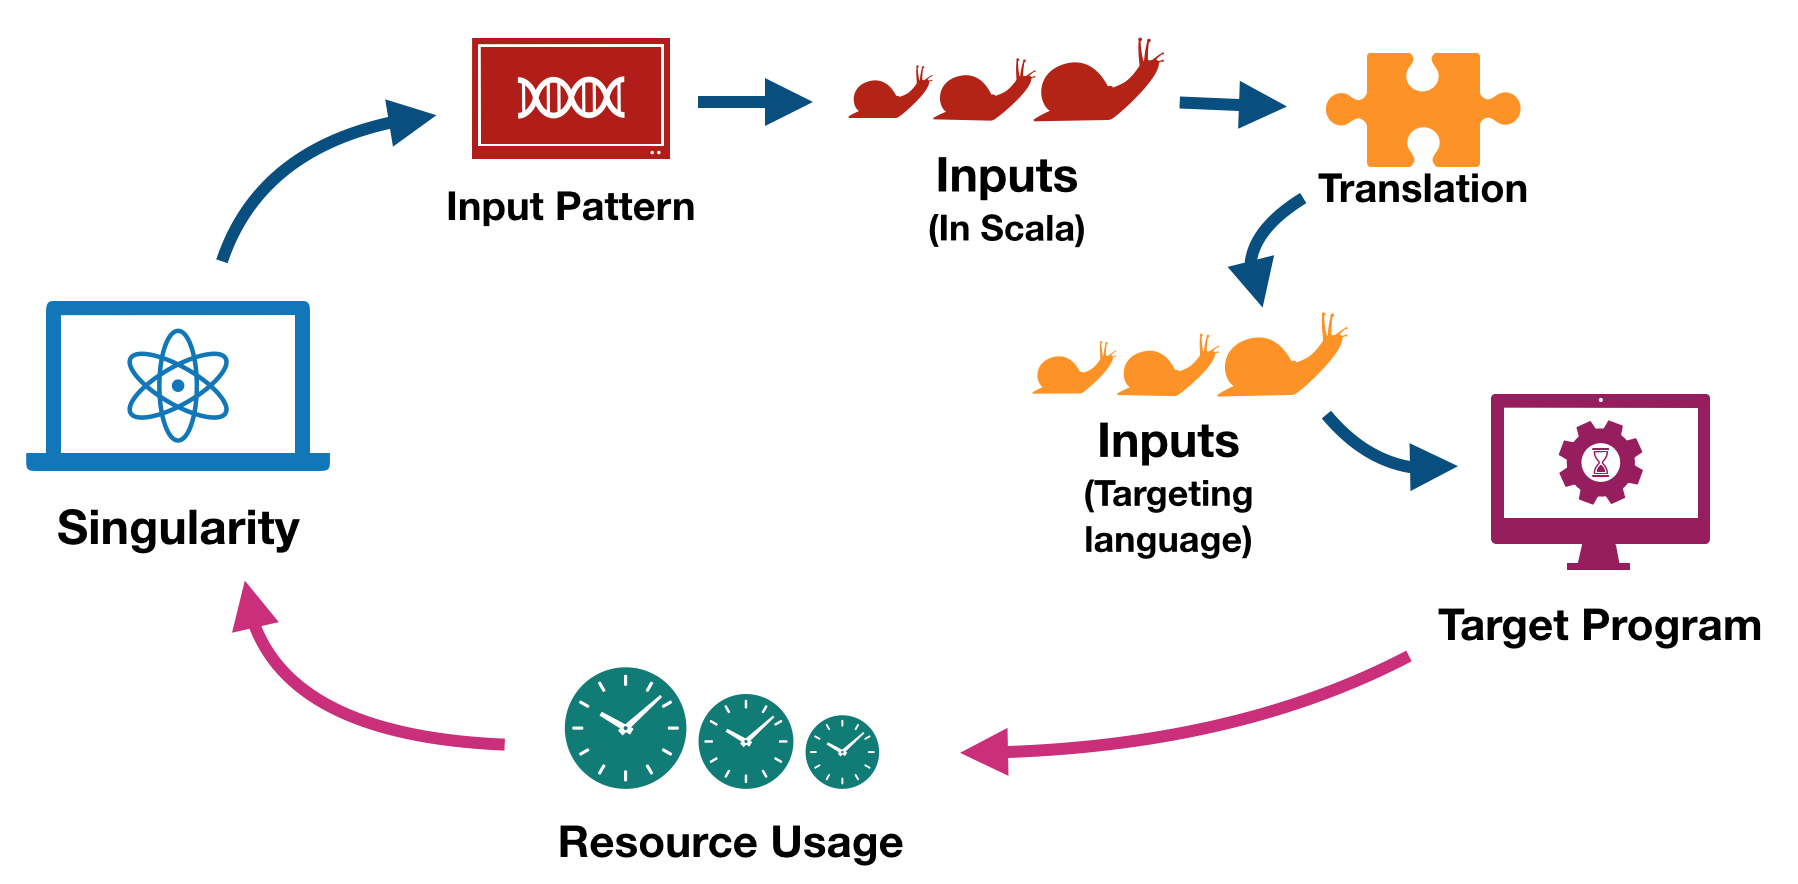
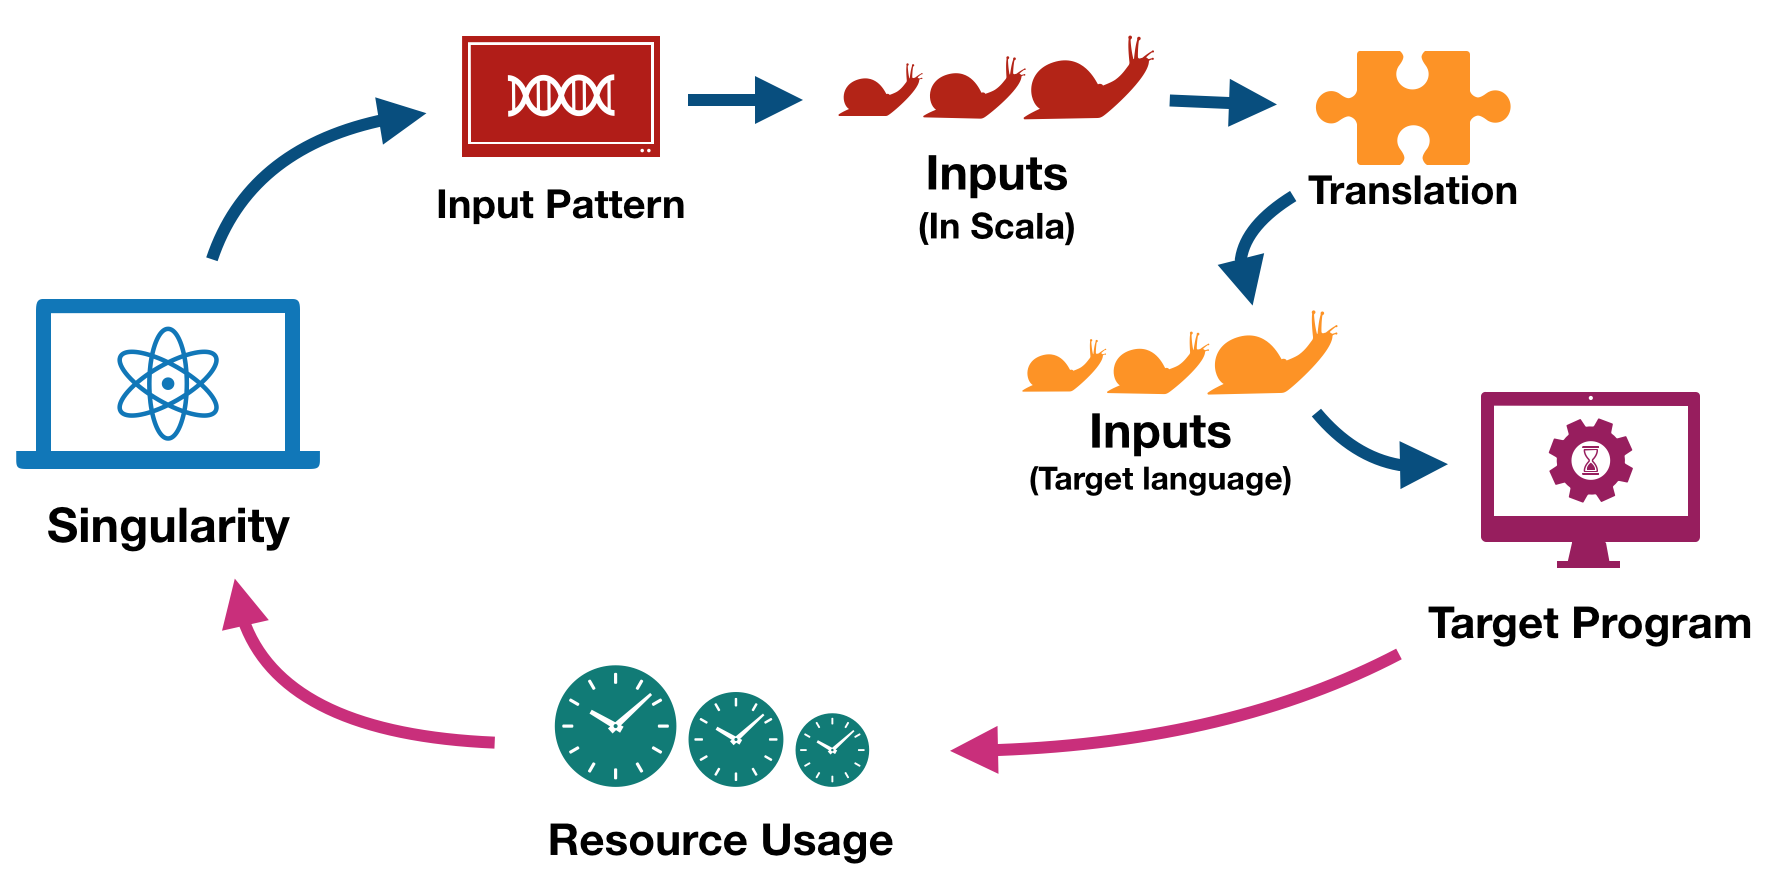
Adjust the image

diff --git a/README.md b/README.md
@@ -13,17 +13,16 @@ Singularity is an automatic fuzzing tool for generating inputs (called patterns)
 
 The core idea behind Singulairty is based on the observation that the worst-case behavior of a given progarm is normally triggered by inputs with some specific structual patterns. For example, to trigger the maximal running time of an insertion sort algorithm, the input array must be reversely sorted. Similarly, inserting a series of elements with the right pattern into a hash-based data structure can cause hash collisions and greatly decrease its performance (see https://github.com/google/guava/issues/3015).
 
-In order to efficiently search for such inputs, Singularity emploies a Domain Specific Language (DSL) to compactly represents different input patterns and uses an optimization technique called [Genetic Programming](https://en.wikipedia.org/wiki/Genetic_programming) to synthesize input patterns generating maximial resource usage inputs. This feedback-guided workflow is shown as follows:
+In order to efficiently search for such inputs, Singularity emploies a Domain Specific Language (DSL) to compactly represents different input patterns and uses an optimization technique called [Genetic Programming](https://en.wikipedia.org/wiki/Genetic_programming) to synthesize input patterns with maximial resource usage inputs. This feedback-guided workflow is shown as follows:
 
-
-<img src="doc/images/SingularityLoop.png" width="600">
+![SingularityLoop.png](doc/images/SingularityLoop.png)
 
 
 ## Usage
 
-The recommended way is to include Singularity as a library into your Scala/Java project. Since Singularity is a blackbox fuzzing technique, it can be used for fuzzing target programs written in any language, but it would require the user to provide gluing code to translate the data structures outputed by Singularity into corresponding counterparts acceptable by the program of interest.
+The recommended way is to include Singularity as a library into your Scala/Java project. Since Singularity is a blackbox fuzzing technique, it can be used to fuzz target programs written in any language, but the user is required to provide gluing code to translate the data structures outputed by Singularity into corresponding counterparts acceptable by the target program.
 
-To include Singularity into your Scala project, add the following line into your build.sbt file.
+To include Singularity into your Scala project, add the following line into your `build.sbt` file.
 
 ```scala
 libraryDependencies += "TODO"
